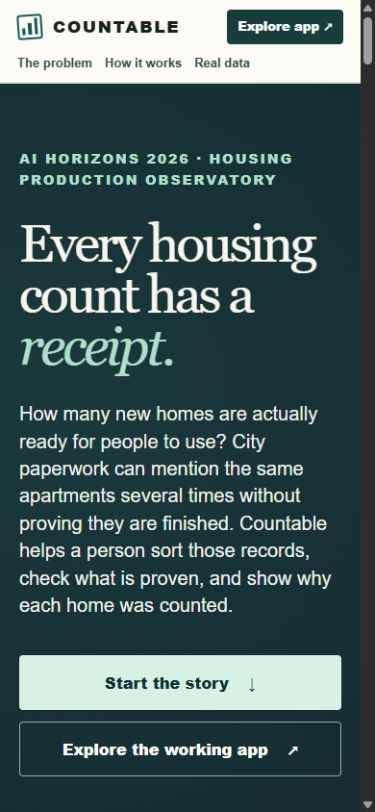
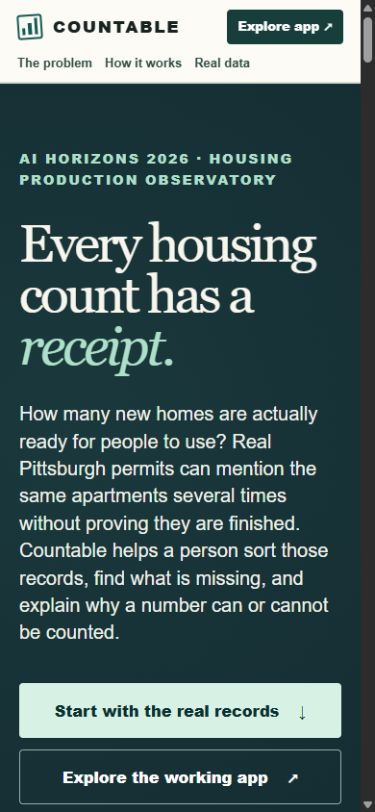
Polish real-record story and source workflow

Changed region(s): [[0.0293, 0.5234, 0.9093, 1.0], [0.968, 0.0616, 0.9973, 0.0924], [0.0293, 0.9544, 0.0587, 0.9852]]

diff --git a/src/app/ledger/page.tsx b/src/app/ledger/page.tsx
@@ -10,10 +10,10 @@ export default function LedgerPage(){return <LedgerView/>}
 
 function LedgerView(){const [data,setData]=useState<LedgerData|null>(null);const [loading,setLoading]=useState(true);const [error,setError]=useState("");const [auditOpen,setAuditOpen]=useState(false);
  const load=useCallback(()=>{setLoading(true);setError("");apiJson<LedgerData>("/api/ledger").then(setData).catch(e=>setError(e.message)).finally(()=>setLoading(false));},[]);useEffect(()=>{let active=true;apiJson<LedgerData>("/api/ledger").then(d=>{if(active)setData(d)}).catch(e=>{if(active)setError(e.message)}).finally(()=>{if(active)setLoading(false)});return()=>{active=false};},[]);
- return <div className="page ledger-page"><div className="page-heading"><div><div className="eyebrow">Reviewed evidence / additions</div><h1 className="page-title">Housing event ledger</h1><p className="page-intro">A recorded addition appears here only after a human reviewer approves evidence for its identity, units, date, and prior counting. Coverage is limited to these seeded cases.</p></div><Link className="btn" href="/app">← Review queue</Link></div>
+ return <div className="page ledger-page"><div className="page-heading"><div><div className="eyebrow">Reviewed evidence / additions</div><h1 className="page-title">Housing event ledger</h1><p className="page-intro">A recorded addition appears here only after a human reviewer approves evidence for its identity, units, date, and prior counting. Coverage is limited to the selected public records.</p></div><Link className="btn" href="/app">← Review queue</Link></div>
  {error&&<div className="notice error" role="alert"><strong>Could not load the ledger.</strong>{error} <button className="btn btn-small" onClick={load}>Try again</button></div>}
  {loading?<div className="loading"><div className="spinner"/>Loading reviewed events…</div>:data&&<>
- <div className="ledger-summary panel"><div><span className="eyebrow">Verified additions within stated coverage</span><div className="ledger-total">{data.totalUnits}</div><p>Units across {data.events.length} reviewed housing event{data.events.length===1?"":"s"}. This is an additions-only result for the cases shown, not a citywide or net growth figure.</p></div><div className="ledger-summary-side"><div><strong>Coverage snapshot</strong><span>{formatDate(data.coverage.snapshotAt)}</span></div><div><strong>Source records</strong><span>{data.coverage.recordCount}</span></div><div><strong>Open cases</strong><span>{data.unresolvedProjects.length}</span></div></div></div>
+ <div className="ledger-summary panel"><div><span className="eyebrow">Verified additions within stated coverage</span><div className="ledger-total">{data.totalUnits}</div><p>Units across {data.events.length} reviewed housing event{data.events.length===1?"":"s"}. This is an additions-only result for the cases shown, not a citywide or net growth figure. Zero verified here means proof is missing; it does not mean zero homes were built.</p></div><div className="ledger-summary-side"><div><strong>Coverage snapshot</strong><span>{formatDate(data.coverage.snapshotAt)}</span></div><div><strong>Source records</strong><span>{data.coverage.recordCount}</span></div><div><strong>Open cases</strong><span>{data.unresolvedProjects.length}</span></div></div></div>
  <div className="ledger-tools"><div><h2>Reviewed events</h2><p>Stable event identities prevent repeated imports or approvals from creating new ledger rows.</p></div><div className="btn-group"><a className="btn btn-small" href="/api/export/ledger" download="countable-ledger.csv">Download CSV ↓</a><a className="btn btn-small" href="/api/export/report" download="countable-evidence-report.md">Evidence report ↓</a></div></div>
  <div className="panel ledger-table-wrap"><table className="ledger-table"><thead><tr><th>Housing event</th><th>Additional units</th><th>Event date</th><th>Source / evidence</th><th>Review</th></tr></thead><tbody>{data.events.map(e=><tr key={e.id}><td><Link href={`/projects/${encodeURIComponent(e.projectId)}`}>{e.projectName}</Link><small>{e.buildingLabel||"Building unspecified"} · <span className="mono">{e.id}</span></small></td><td className="unit-cell">+{e.units}</td><td>{formatDate(e.eventDate)}</td><td><span className="source-references">{e.sourceRefs.join(", ")||"No source reference"}</span><small>{e.evidenceRefs.join(", ")||"No evidence reference"}</small></td><td><span className="pill green">Reviewed</span><small>{formatDate(e.decisionAt)}</small></td></tr>)}</tbody></table>{!data.events.length&&<div className="empty"><strong>No approved additions in this ledger yet.</strong><p>Review candidate events and supporting documents to create an auditable entry.</p><Link className="btn" href="/app">Open review queue</Link></div>}</div>
  <div className="ledger-lower"><section className="panel panel-pad"><div className="section-top"><h2>Unresolved cases</h2><span className="tiny muted">Remain visible alongside the ledger</span></div>{data.unresolvedProjects.length?<ul className="unresolved-list">{data.unresolvedProjects.map(p=><li key={p.id}><div><Link href={`/projects/${encodeURIComponent(p.id)}`}>{p.name}</Link><span>{p.reason}</span></div><Link className="back-link" href={`/projects/${encodeURIComponent(p.id)}`}>Review →</Link></li>)}</ul>:<p className="muted">No unresolved cases within this scope.</p>}</section><section className="panel panel-pad"><div className="section-top"><h2>Audit history</h2>{data.audit.length>4&&<button className="text-button" onClick={()=>setAuditOpen(!auditOpen)} aria-expanded={auditOpen}>{auditOpen?"Show less":"Show all"}</button>}</div>{data.audit.length?<ol className="ledger-audit">{(auditOpen?data.audit:data.audit.slice(0,4)).map(a=><li key={a.id}><div className="audit-time">{formatDate(a.at)}</div><div><strong>{a.action.replaceAll("_"," ")}</strong><span>{a.reason}</span><small>{a.targetType} · {a.targetId}</small></div></li>)}</ol>:<p className="muted">No review decisions have been recorded yet.</p>}</section></div>

diff --git a/src/app/projects/[id]/page.tsx b/src/app/projects/[id]/page.tsx
@@ -55,7 +55,7 @@ function ProjectWorkspace(){
     <div className="workspace-header"><div><Link href="/app" className="back-link">← Review queue</Link><div className="eyebrow">Project evidence / Pittsburgh</div><h1 className="page-title">{p.name}</h1><p className="page-intro">{p.subtitle||p.address} <span className="header-dot">·</span> Parcel {p.parcel||"unknown"}</p></div><div className="workspace-header-actions"><span className={`pill ${statusClass[p.reviewStatus]}`}>{statusText[p.reviewStatus]}</span><button className="btn" onClick={analyze} disabled={!!busy}>{busy==="analyze"?"Analyzing…":data.mode==="live"?"Run AI analysis":"Run rules analysis"}</button><Link className="btn" href="/ledger">View ledger ↗</Link></div></div>
     {data.mode==="rules-only"&&<div className="mode-line">◎ Rules-only mode — no live model request was made. Proposed claims and relationships require reviewer confirmation.</div>}
     {flash&&<div className={`notice ${flash.includes("failed")||flash.includes("could not")||flash.includes("before")?"error":"info"}`} role="status">{flash}<button className="notice-close" aria-label="Dismiss message" onClick={()=>setFlash("")}>×</button></div>}
-    {showcase&&<section className="showcase panel" aria-label="Guided showcase"><div className="showcase-progress"><span className="eyebrow">Guided showcase</span><span>Step {step+1} of {showcaseSteps.length}</span></div><div className="showcase-body"><div className="showcase-number">{String(step+1).padStart(2,"0")}</div><div><h2>{showcaseSteps[step].title}</h2><p>{showcaseSteps[step].body}</p></div><div className="showcase-actions"><button className="btn btn-small" onClick={()=>goStep(Math.max(0,step-1))} disabled={step===0}>Previous</button>{step<showcaseSteps.length-1?<button className="btn btn-primary btn-small" onClick={()=>goStep(step+1)}>Next step →</button>:<button className="btn btn-small" onClick={()=>setShowcase(false)}>Finish</button>}</div></div>{step>=6&&p.id==="development-10c"&&<div className="showcase-source-links"><a className="showcase-sandbox-link" href="https://www.pittsburghpa.gov/Business-Development/Permits-Licenses-and-Inspections/References-Resources-and-Forms/Online-Occupancy-Search" target="_blank" rel="noreferrer">Search City occupancy records ↗</a><a className="showcase-sandbox-link" href="https://www.pittsburghpa.gov/Business-Development/Permits-Licenses-and-Inspections/OneStopPGH" target="_blank" rel="noreferrer">Search OneStopPGH for case documents ↗</a><span className="tiny muted">These searches are source leads; this snapshot contains no confirmed occupancy document.</span></div>}</section>}
+    {showcase&&<section className="showcase panel" aria-label="Guided showcase"><div className="showcase-progress"><span className="eyebrow">Guided showcase</span><span>Step {step+1} of {showcaseSteps.length}</span></div><div className="showcase-body"><div className="showcase-number">{String(step+1).padStart(2,"0")}</div><div><h2>{showcaseSteps[step].title}</h2><p>{showcaseSteps[step].body}</p></div><div className="showcase-actions"><button className="btn btn-small" onClick={()=>goStep(Math.max(0,step-1))} disabled={step===0}>Previous</button>{step<showcaseSteps.length-1?<button className="btn btn-primary btn-small" onClick={()=>goStep(step+1)}>Next step →</button>:<button className="btn btn-small" onClick={()=>setShowcase(false)}>Finish</button>}</div></div>{step>=6&&p.id==="development-10c"&&<div className="showcase-source-links"><a className="showcase-sandbox-link" href="https://www.pittsburghpa.gov/Business-Development/Permits-Licenses-and-Inspections/References-Resources-and-Forms/Online-Occupancy-Search" target="_blank" rel="noreferrer">Search City occupancy records ↗</a><a className="showcase-sandbox-link" href="https://onestoppgh.pittsburghpa.gov/" target="_blank" rel="noreferrer">Search OneStopPGH for case documents ↗</a><span className="tiny muted">These searches are source leads; this snapshot contains no confirmed occupancy document.</span></div>}</section>}
     <div className="workspace-grid">
       <aside className="workspace-left panel" aria-label="Source records and relationships"><div className="column-heading"><h2>Source records</h2><span>{data.records.length}</span></div><div className="source-list">{data.records.map(r=><button key={r.id} className={`source-item ${selection?.kind==="record"&&selection.id===r.id?"selected":""}`} onClick={()=>{setSelection({kind:"record",id:r.id});setSelectedClaim(null)}}><span className="source-type">{r.type}</span><strong>{r.permitId}</strong><span>{r.buildingLabel||r.workType||"Project record"}</span><small>{formatDate(r.issueDate)}</small></button>)}</div>
       <div className="column-heading subheading"><h2>Evidence documents</h2><button className="text-button" onClick={()=>{setEvidenceRelatedEvent(selectedEvent||"");setEvidenceOpen(!evidenceOpen)}} aria-expanded={evidenceOpen}>{evidenceOpen?"Close":"+ Add evidence"}</button></div>

diff --git a/src/app/page.tsx b/src/app/page.tsx
@@ -50,7 +50,7 @@ export default function LandingPage() {
         <div className="hero-copy"><Tag>AI Horizons 2026 · Housing Production Observatory</Tag><h1 id="hero-title">Every housing count has a <em>receipt.</em></h1><p className="hero-lede">How many new homes are actually ready for people to use? Real Pittsburgh permits can mention the same apartments several times without proving they are finished. Countable helps a person sort those records, find what is missing, and explain why a number can or cannot be counted.</p><div className="hero-actions"><a className="pitch-button pitch-button-light" href="#story">Start with the real records <span aria-hidden="true">↓</span></a><Link className="pitch-button pitch-button-outline" href="/app">Explore the working app <span aria-hidden="true">↗</span></Link></div><p className="hero-footnote">A “receipt” means the original document, exact words, date and reviewer decision behind an approved count. The Bedford case still needs that proof.</p></div>
         <div className="hero-visual" aria-label="Four real Bedford permit records with overlapping unit claims; occupancy proof is missing">
           <div className="visual-head"><SourceCohort/><span>01 / One project, many forms</span></div>
-          <div className="visual-grid"><div className="visual-records">{records.map(record=><button type="button" key={record.id} className={`visual-card visual-${record.tone} ${selectedRecord===record.id?"selected":""}`} aria-pressed={selectedRecord===record.id} onClick={()=>setSelectedRecord(record.id)}><span className="visual-card-top"><span>{record.kind}</span><code>{record.id}</code></span><strong>{record.claim}</strong>{record.tone==="repeat"&&<small className="duplicate-note">Explicitly references the A3 building permit</small>}</button>)}</div><div className="visual-join" aria-hidden="true"><span/><span/><span/></div><div className="visual-outcomes"><div className="visual-event"><span>What the permits establish</span><strong>?</strong><small>verified new homes in this selected snapshot</small><div className="event-stamp">Occupancy proof still needed</div></div><div className="visual-pending"><span>Building A3</span><strong>9 described in permits</strong><small>Do not count as ready yet</small></div></div></div>
+          <div className="visual-grid"><div className="visual-records">{records.map(record=><button type="button" key={record.id} className={`visual-card visual-${record.tone} ${selectedRecord===record.id?"selected":""}`} aria-pressed={selectedRecord===record.id} onClick={()=>setSelectedRecord(record.id)}><span className="visual-card-top"><span>{record.kind}</span><code>{record.id}</code></span><strong>{record.claim}</strong>{record.tone==="repeat"&&<small className="duplicate-note">Explicitly references the A3 building permit</small>}</button>)}</div><div className="visual-join" aria-hidden="true"><span/><span/><span/></div><div className="visual-outcomes"><div className="visual-event"><span>Verified additions</span><strong>?</strong><small>The number ready to use is unresolved here</small><div className="event-stamp">Occupancy proof still needed</div></div><div className="visual-pending"><span>Building A3</span><strong>9 described in permits</strong><small>Do not count as ready yet</small></div></div></div>
           <div className="visual-passage" aria-live="polite"><span>Words from selected public record · {currentRecord.id}</span><p>“{currentRecord.passage}”</p></div>
         </div>
       </div><div className="hero-baseline pitch-container"><span>Paperwork → original words → human check → supported count</span><span>Scroll to follow one case ↓</span></div>

diff --git a/src/app/app/page.tsx b/src/app/app/page.tsx
@@ -31,7 +31,7 @@ export default function QueuePage(){
     {loading?<div className="loading"><div className="spinner"/>Loading source coverage and cases…</div>:data&&<>
       <div className="coverage-bar panel">
         <div className="coverage-icon" aria-hidden="true">◎</div>
-        <div className="coverage-copy"><strong>What this workspace covers</strong><span>{data.coverage.caseCount} seeded case{data.coverage.caseCount===1?"":"s"} · {data.coverage.recordCount} cached permit record{data.coverage.recordCount===1?"":"s"} · Snapshot {formatDate(data.coverage.snapshotAt)}</span></div>
+        <div className="coverage-copy"><strong>What this workspace covers</strong><span>{data.coverage.caseCount} selected real case{data.coverage.caseCount===1?"":"s"} · {data.coverage.recordCount} public permit record{data.coverage.recordCount===1?"":"s"} · Snapshot {formatDate(data.coverage.snapshotAt)}</span></div>
         <span className="pill teal">{data.mode==="live"?"Live AI available":"Rules-only mode"}</span>
         <button className="btn btn-small" aria-expanded={coverageOpen} onClick={()=>setCoverageOpen(!coverageOpen)}>{coverageOpen?"Hide":"View"} coverage</button>
       </div>
